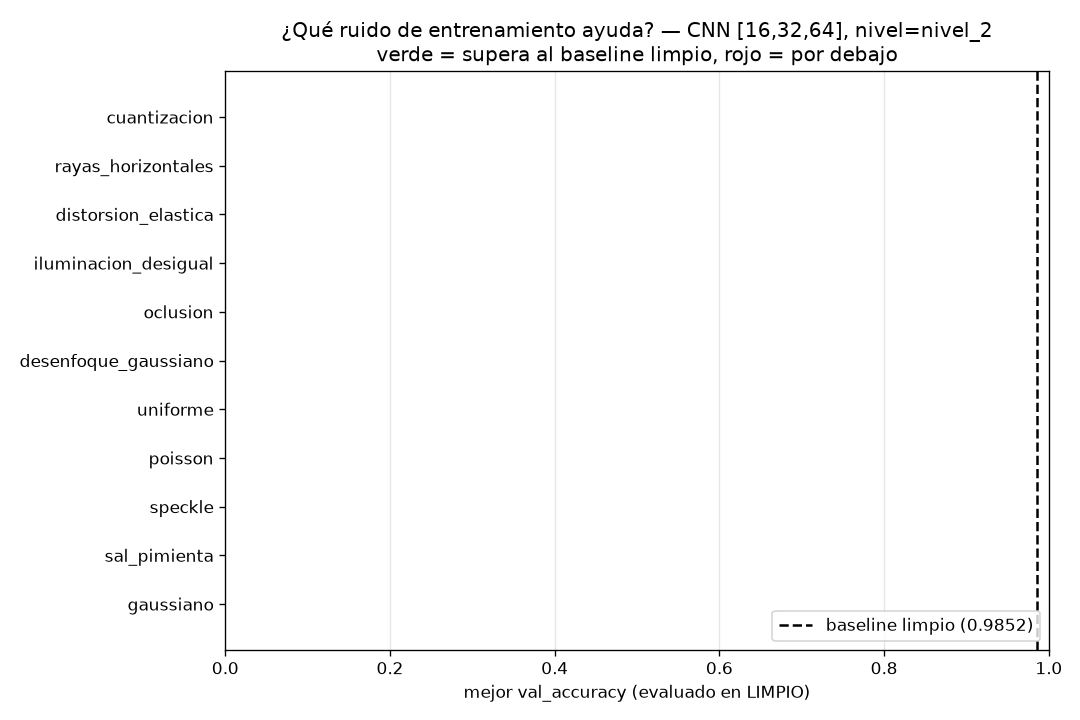
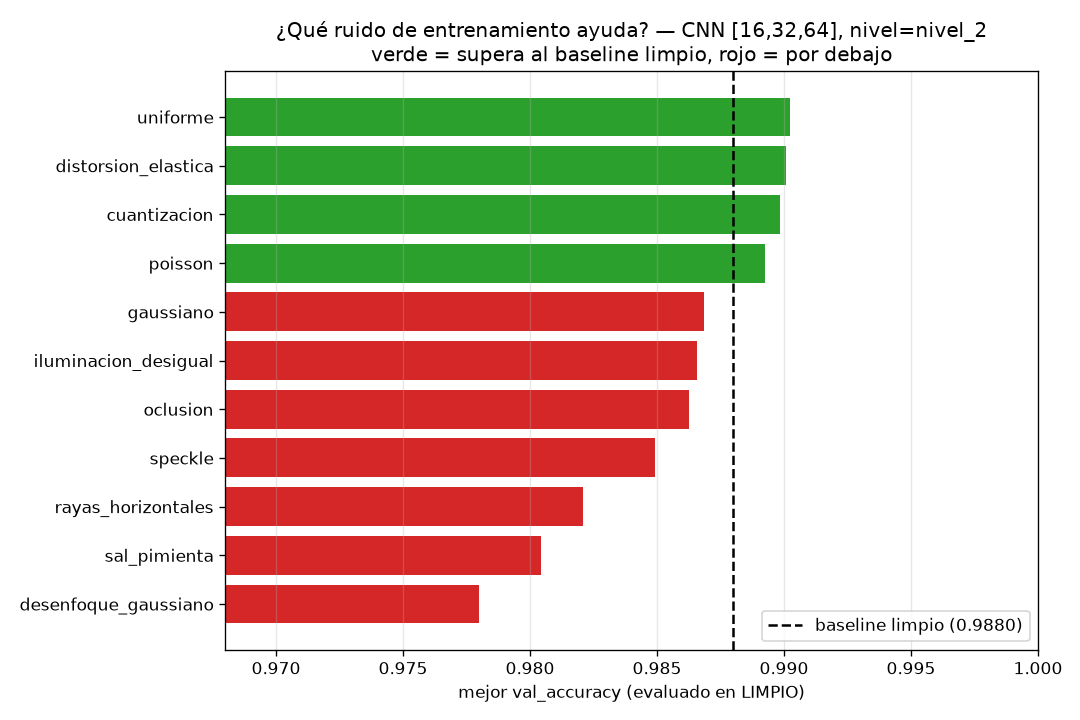
.

diff --git a/scripts/robustness_noisetype_sweep.py b/scripts/robustness_noisetype_sweep.py
@@ -1,0 +1,141 @@
+"""Generalización cruzada de ruido: cada CNN (entrenada con un tipo de ruido) vs. TODOS los sets.
+
+Modelos del `_noisetype_sweep` (bitácora): una CNN entrenada en limpio + una por cada tipo de
+ruido (nivel_2). Se evalúa cada modelo sobre el TEST limpio y todos los subsets ruidosos
+(tipo × nivel). Responde: ¿entrenar con el ruido X ayuda contra el ruido Y?
+
+Salidas en reports/:
+  - robustness_noisetype_curves.png : subplot por tipo de TEST, una curva por modelo (acc vs nivel).
+  - robustness_noisetype_heatmap.png: matriz entrenado-en (filas) × testeado-en (cols), media sobre niveles.
+
+Uso:  python scripts/robustness_noisetype_sweep.py
+"""
+from __future__ import annotations
+
+import json
+from pathlib import Path
+
+import matplotlib
+matplotlib.use("Agg")
+import matplotlib.pyplot as plt
+import numpy as np
+import torch
+from torch.utils.data import DataLoader, TensorDataset
+
+from nnist.data import load_levels, load_mnist, noisy_dataset
+from nnist.models import build_model
+from nnist.training import TrainConfig, Trainer
+
+CKPT_DIR = Path("experiments/_noisetype_sweep")
+OUT_CURVES = Path("reports/robustness_noisetype_curves.png")
+OUT_HEATMAP = Path("reports/robustness_noisetype_heatmap.png")
+LEVELS = [1, 2, 3, 4, 5]
+
+
+def build_from_checkpoint(path, input_shape, num_classes):
+    ckpt = torch.load(path, map_location="cpu")
+    sd = ckpt["model_state"]
+    channels = [v.shape[0] for k, v in sd.items()
+                if k.startswith("features") and k.endswith(".weight") and v.dim() == 4]
+    kernel = int(sd["features.0.weight"].shape[2])
+    batchnorm = any("running_mean" in k for k in sd)
+    fc_hidden = sd["classifier.1.weight"].shape[0]
+    model = build_model("cnn", input_shape=input_shape, num_classes=num_classes,
+                        channels=channels, kernel_size=kernel, fc_hidden=fc_hidden,
+                        batchnorm=batchnorm, dropout=0.2)
+    model.load_state_dict(sd)
+    model.eval()
+    return model, model.count_params()["params_total"]
+
+
+def main() -> None:
+    bundle = load_mnist()
+    input_shape, num_classes = bundle.input_shape, bundle.num_classes
+    xs, ys = zip(*[(x, int(y)) for x, y in bundle.test])
+    clean_ds = TensorDataset(torch.stack(xs), torch.tensor(ys, dtype=torch.long))
+
+    types = list(load_levels()["types"])
+    # orden de modelos: limpio primero, luego los tipos en orden del config
+    order = ["limpio"] + types
+    tags = [t for t in order if (CKPT_DIR / f"ckpt_{t}.pt").exists()]
+
+    trainers, results = {}, {"models": {}}
+    for tag in tags:
+        model, params = build_from_checkpoint(CKPT_DIR / f"ckpt_{tag}.pt", input_shape, num_classes)
+        trainers[tag] = Trainer(model, TrainConfig(device="cpu", batch_size=256))
+        results["models"][tag] = {"params": params, "clean": None, "noise": {}}
+
+    def acc(tag, ds):
+        return trainers[tag].evaluate(DataLoader(ds, batch_size=256, shuffle=False))[0]
+
+    print("Accuracy en TEST limpio por modelo (entrenado-en):")
+    for tag in tags:
+        results["models"][tag]["clean"] = acc(tag, clean_ds)
+        print(f"  {tag:<22} {results['models'][tag]['clean']:.4f}")
+    print("\nEvaluando cada modelo sobre todos los tipos×niveles...")
+
+    for tag in tags:
+        for tipo in types:
+            results["models"][tag]["noise"][tipo] = {
+                f"nivel_{n}": acc(tag, noisy_dataset(tipo, f"nivel_{n}", "test")) for n in LEVELS
+            }
+        print(f"  hecho: {tag}")
+
+    CKPT_DIR.joinpath("robustness_noisetype.json").write_text(
+        json.dumps(results, indent=2, ensure_ascii=False), encoding="utf-8")
+
+    # --- Figura A: curvas, subplot por tipo de TEST, una línea por modelo ---
+    cmap = plt.get_cmap("tab20")
+    colors = {tag: cmap(i % 20) for i, tag in enumerate(tags)}
+    ncols = 4
+    nrows = (len(types) + ncols - 1) // ncols
+    fig, axes = plt.subplots(nrows, ncols, figsize=(4 * ncols, 3 * nrows), squeeze=False)
+    for i, tipo in enumerate(types):
+        ax = axes[i // ncols][i % ncols]
+        for tag in tags:
+            ys_ = [results["models"][tag]["noise"][tipo][f"nivel_{n}"] for n in LEVELS]
+            lw = 2.4 if tag in ("limpio", tipo) else 1.0   # resalta limpio y el "entrenado en este ruido"
+            ax.plot(LEVELS, ys_, marker="o", ms=3, lw=lw, color=colors[tag], label=tag)
+        ax.set_title(f"test: {tipo}", fontsize=10)
+        ax.set_xticks(LEVELS)
+        ax.set_ylim(0, 1.02)
+        ax.grid(alpha=0.3)
+    # leyenda global en el hueco sobrante
+    handles, labels = axes[0][0].get_legend_handles_labels()
+    for j in range(len(types), nrows * ncols):
+        ax = axes[j // ncols][j % ncols]
+        ax.axis("off")
+    axes[(len(types)) // ncols][(len(types)) % ncols].legend(
+        handles, labels, fontsize=8, loc="center", title="entrenado en", ncol=1)
+    fig.suptitle("Generalización cruzada de ruido — curva por modelo, subplot por tipo de test", fontsize=14)
+    fig.tight_layout(rect=[0, 0, 1, 0.97])
+    OUT_CURVES.parent.mkdir(parents=True, exist_ok=True)
+    fig.savefig(OUT_CURVES, dpi=115)
+    plt.close(fig)
+
+    # --- Figura B: heatmap entrenado-en × testeado-en (media sobre niveles) ---
+    M = np.zeros((len(tags), len(types)))
+    for r, tag in enumerate(tags):
+        for c, tipo in enumerate(types):
+            M[r, c] = np.mean([results["models"][tag]["noise"][tipo][f"nivel_{n}"] for n in LEVELS])
+    fig, ax = plt.subplots(figsize=(1.0 * len(types) + 3, 0.6 * len(tags) + 2))
+    im = ax.imshow(M, cmap="viridis", vmin=max(0.2, M.min()), vmax=1.0, aspect="auto")
+    ax.set_xticks(range(len(types)), types, rotation=45, ha="right", fontsize=8)
+    ax.set_yticks(range(len(tags)), tags, fontsize=8)
+    ax.set_xlabel("testeado en (tipo de ruido)")
+    ax.set_ylabel("entrenado en")
+    for r in range(len(tags)):
+        for c in range(len(types)):
+            ax.text(c, r, f"{M[r, c]:.2f}", ha="center", va="center", fontsize=7,
+                    color="white" if M[r, c] < 0.7 else "black")
+    fig.colorbar(im, ax=ax, label="accuracy media sobre niveles 1-5")
+    ax.set_title("¿Entrenar con el ruido X ayuda contra el ruido Y? (media niveles 1-5)", fontsize=11)
+    fig.tight_layout()
+    fig.savefig(OUT_HEATMAP, dpi=120)
+    plt.close(fig)
+
+    print(f"\nOK: {OUT_CURVES} | {OUT_HEATMAP} | {CKPT_DIR/'robustness_noisetype.json'}")
+
+
+if __name__ == "__main__":
+    main()

diff --git a/trainings/TRAININGS.md b/trainings/TRAININGS.md
@@ -2,24 +2,24 @@
 
 Registro automático (lo escriben los scripts de entrenamiento). Fila por corrida, clave = `id`. Estados: `en_curso`, `hecho`, `fallido`.
 
-| id                             | modelo                 | datos                        | estado   | épocas | val    | test   | checkpoint                                                | actualizado      |
-| ------------------------------ | ---------------------- | ---------------------------- | -------- | ------ | ------ | ------ | --------------------------------------------------------- | ---------------- |
-| noise_compare_limpio           | CNN[16,32,64] d0.2     | mnist_limpio                 | hecho    | 20/20  | 0.9935 | 0.9939 | experiments/_noise_compare/ckpt_clean.pt                  | 2026-07-05 16:24 |
-| noise_compare_ruidoso          | CNN[16,32,64] d0.2     | gaussiano nivel_3            | hecho    | 20/20  | 0.9832 | 0.9823 | experiments/_noise_compare/ckpt_noisy.pt                  | 2026-07-05 16:24 |
-| kernel_k3                      | CNN[16,32,64] k=3 d0.2 | mnist_limpio                 | hecho    | 15/15  | 0.9932 | 0.9937 | experiments/_kernel_sweep/ckpt_k3.pt                      | 2026-07-05 16:49 |
-| kernel_k5                      | CNN[16,32,64] k=5 d0.2 | mnist_limpio                 | hecho    | 15/15  | 0.9891 | 0.9883 | experiments/_kernel_sweep/ckpt_k5.pt                      | 2026-07-05 16:49 |
-| kernel_k7                      | CNN[16,32,64] k=7 d0.2 | mnist_limpio                 | hecho    | 15/15  | 0.9838 | 0.9852 | experiments/_kernel_sweep/ckpt_k7.pt                      | 2026-07-05 16:49 |
-| noisetype_limpio               | CNN[16, 32, 64] d0.2   | mnist_limpio                 | en_curso | 2/3    | 0.9852 | —      | experiments\_noisetype_sweep\ckpt_limpio.pt               | 2026-07-05 19:22 |
-| noisetype_gaussiano            | CNN[16, 32, 64] d0.2   | gaussiano nivel_2            | en_curso | 0/3    | —      | —      | experiments\_noisetype_sweep\ckpt_gaussiano.pt            | 2026-07-05 19:21 |
-| noisetype_sal_pimienta         | CNN[16, 32, 64] d0.2   | sal_pimienta nivel_2         | en_curso | 0/3    | —      | —      | experiments\_noisetype_sweep\ckpt_sal_pimienta.pt         | 2026-07-05 19:21 |
-| noisetype_speckle              | CNN[16, 32, 64] d0.2   | speckle nivel_2              | en_curso | 0/3    | —      | —      | experiments\_noisetype_sweep\ckpt_speckle.pt              | 2026-07-05 19:21 |
-| noisetype_poisson              | CNN[16, 32, 64] d0.2   | poisson nivel_2              | en_curso | 0/3    | —      | —      | experiments\_noisetype_sweep\ckpt_poisson.pt              | 2026-07-05 19:21 |
-| noisetype_uniforme             | CNN[16, 32, 64] d0.2   | uniforme nivel_2             | en_curso | 0/3    | —      | —      | experiments\_noisetype_sweep\ckpt_uniforme.pt             | 2026-07-05 19:21 |
-| noisetype_desenfoque_gaussiano | CNN[16, 32, 64] d0.2   | desenfoque_gaussiano nivel_2 | en_curso | 0/3    | —      | —      | experiments\_noisetype_sweep\ckpt_desenfoque_gaussiano.pt | 2026-07-05 19:21 |
-| noisetype_oclusion             | CNN[16, 32, 64] d0.2   | oclusion nivel_2             | en_curso | 0/3    | —      | —      | experiments\_noisetype_sweep\ckpt_oclusion.pt             | 2026-07-05 19:21 |
-| noisetype_iluminacion_desigual | CNN[16, 32, 64] d0.2   | iluminacion_desigual nivel_2 | en_curso | 0/3    | —      | —      | experiments\_noisetype_sweep\ckpt_iluminacion_desigual.pt | 2026-07-05 19:21 |
-| noisetype_distorsion_elastica  | CNN[16, 32, 64] d0.2   | distorsion_elastica nivel_2  | en_curso | 0/3    | —      | —      | experiments\_noisetype_sweep\ckpt_distorsion_elastica.pt  | 2026-07-05 19:21 |
-| noisetype_rayas_horizontales   | CNN[16, 32, 64] d0.2   | rayas_horizontales nivel_2   | en_curso | 0/3    | —      | —      | experiments\_noisetype_sweep\ckpt_rayas_horizontales.pt   | 2026-07-05 19:21 |
-| noisetype_cuantizacion         | CNN[16, 32, 64] d0.2   | cuantizacion nivel_2         | en_curso | 0/3    | —      | —      | experiments\_noisetype_sweep\ckpt_cuantizacion.pt         | 2026-07-05 19:21 |
+| id                             | modelo                 | datos                        | estado | épocas | val    | test   | checkpoint                                                | actualizado      |
+| ------------------------------ | ---------------------- | ---------------------------- | ------ | ------ | ------ | ------ | --------------------------------------------------------- | ---------------- |
+| noise_compare_limpio           | CNN[16,32,64] d0.2     | mnist_limpio                 | hecho  | 20/20  | 0.9935 | 0.9939 | experiments/_noise_compare/ckpt_clean.pt                  | 2026-07-05 16:24 |
+| noise_compare_ruidoso          | CNN[16,32,64] d0.2     | gaussiano nivel_3            | hecho  | 20/20  | 0.9832 | 0.9823 | experiments/_noise_compare/ckpt_noisy.pt                  | 2026-07-05 16:24 |
+| kernel_k3                      | CNN[16,32,64] k=3 d0.2 | mnist_limpio                 | hecho  | 15/15  | 0.9932 | 0.9937 | experiments/_kernel_sweep/ckpt_k3.pt                      | 2026-07-05 16:49 |
+| kernel_k5                      | CNN[16,32,64] k=5 d0.2 | mnist_limpio                 | hecho  | 15/15  | 0.9891 | 0.9883 | experiments/_kernel_sweep/ckpt_k5.pt                      | 2026-07-05 16:49 |
+| kernel_k7                      | CNN[16,32,64] k=7 d0.2 | mnist_limpio                 | hecho  | 15/15  | 0.9838 | 0.9852 | experiments/_kernel_sweep/ckpt_k7.pt                      | 2026-07-05 16:49 |
+| noisetype_limpio               | CNN[16, 32, 64] d0.2   | mnist_limpio                 | hecho  | 3/3    | 0.9880 | 0.9881 | experiments\_noisetype_sweep\ckpt_limpio.pt               | 2026-07-05 19:23 |
+| noisetype_gaussiano            | CNN[16, 32, 64] d0.2   | gaussiano nivel_2            | hecho  | 3/3    | 0.9868 | 0.9877 | experiments\_noisetype_sweep\ckpt_gaussiano.pt            | 2026-07-05 19:24 |
+| noisetype_sal_pimienta         | CNN[16, 32, 64] d0.2   | sal_pimienta nivel_2         | hecho  | 3/3    | 0.9804 | 0.9845 | experiments\_noisetype_sweep\ckpt_sal_pimienta.pt         | 2026-07-05 19:26 |
+| noisetype_speckle              | CNN[16, 32, 64] d0.2   | speckle nivel_2              | hecho  | 3/3    | 0.9849 | 0.9870 | experiments\_noisetype_sweep\ckpt_speckle.pt              | 2026-07-05 19:28 |
+| noisetype_poisson              | CNN[16, 32, 64] d0.2   | poisson nivel_2              | hecho  | 3/3    | 0.9892 | 0.9895 | experiments\_noisetype_sweep\ckpt_poisson.pt              | 2026-07-05 19:30 |
+| noisetype_uniforme             | CNN[16, 32, 64] d0.2   | uniforme nivel_2             | hecho  | 3/3    | 0.9902 | 0.9913 | experiments\_noisetype_sweep\ckpt_uniforme.pt             | 2026-07-05 19:32 |
+| noisetype_desenfoque_gaussiano | CNN[16, 32, 64] d0.2   | desenfoque_gaussiano nivel_2 | hecho  | 3/3    | 0.9780 | 0.9799 | experiments\_noisetype_sweep\ckpt_desenfoque_gaussiano.pt | 2026-07-05 19:34 |
+| noisetype_oclusion             | CNN[16, 32, 64] d0.2   | oclusion nivel_2             | hecho  | 3/3    | 0.9862 | 0.9855 | experiments\_noisetype_sweep\ckpt_oclusion.pt             | 2026-07-05 19:36 |
+| noisetype_iluminacion_desigual | CNN[16, 32, 64] d0.2   | iluminacion_desigual nivel_2 | hecho  | 3/3    | 0.9866 | 0.9878 | experiments\_noisetype_sweep\ckpt_iluminacion_desigual.pt | 2026-07-05 19:39 |
+| noisetype_distorsion_elastica  | CNN[16, 32, 64] d0.2   | distorsion_elastica nivel_2  | hecho  | 3/3    | 0.9901 | 0.9905 | experiments\_noisetype_sweep\ckpt_distorsion_elastica.pt  | 2026-07-05 19:44 |
+| noisetype_rayas_horizontales   | CNN[16, 32, 64] d0.2   | rayas_horizontales nivel_2   | hecho  | 3/3    | 0.9821 | 0.9817 | experiments\_noisetype_sweep\ckpt_rayas_horizontales.pt   | 2026-07-05 19:46 |
+| noisetype_cuantizacion         | CNN[16, 32, 64] d0.2   | cuantizacion nivel_2         | hecho  | 3/3    | 0.9898 | 0.9902 | experiments\_noisetype_sweep\ckpt_cuantizacion.pt         | 2026-07-05 19:49 |
 
 > Generado automáticamente por `nnist.utils.trainlog`. No editar a mano mientras haya corridas activas (se reescribe entero en cada actualización).